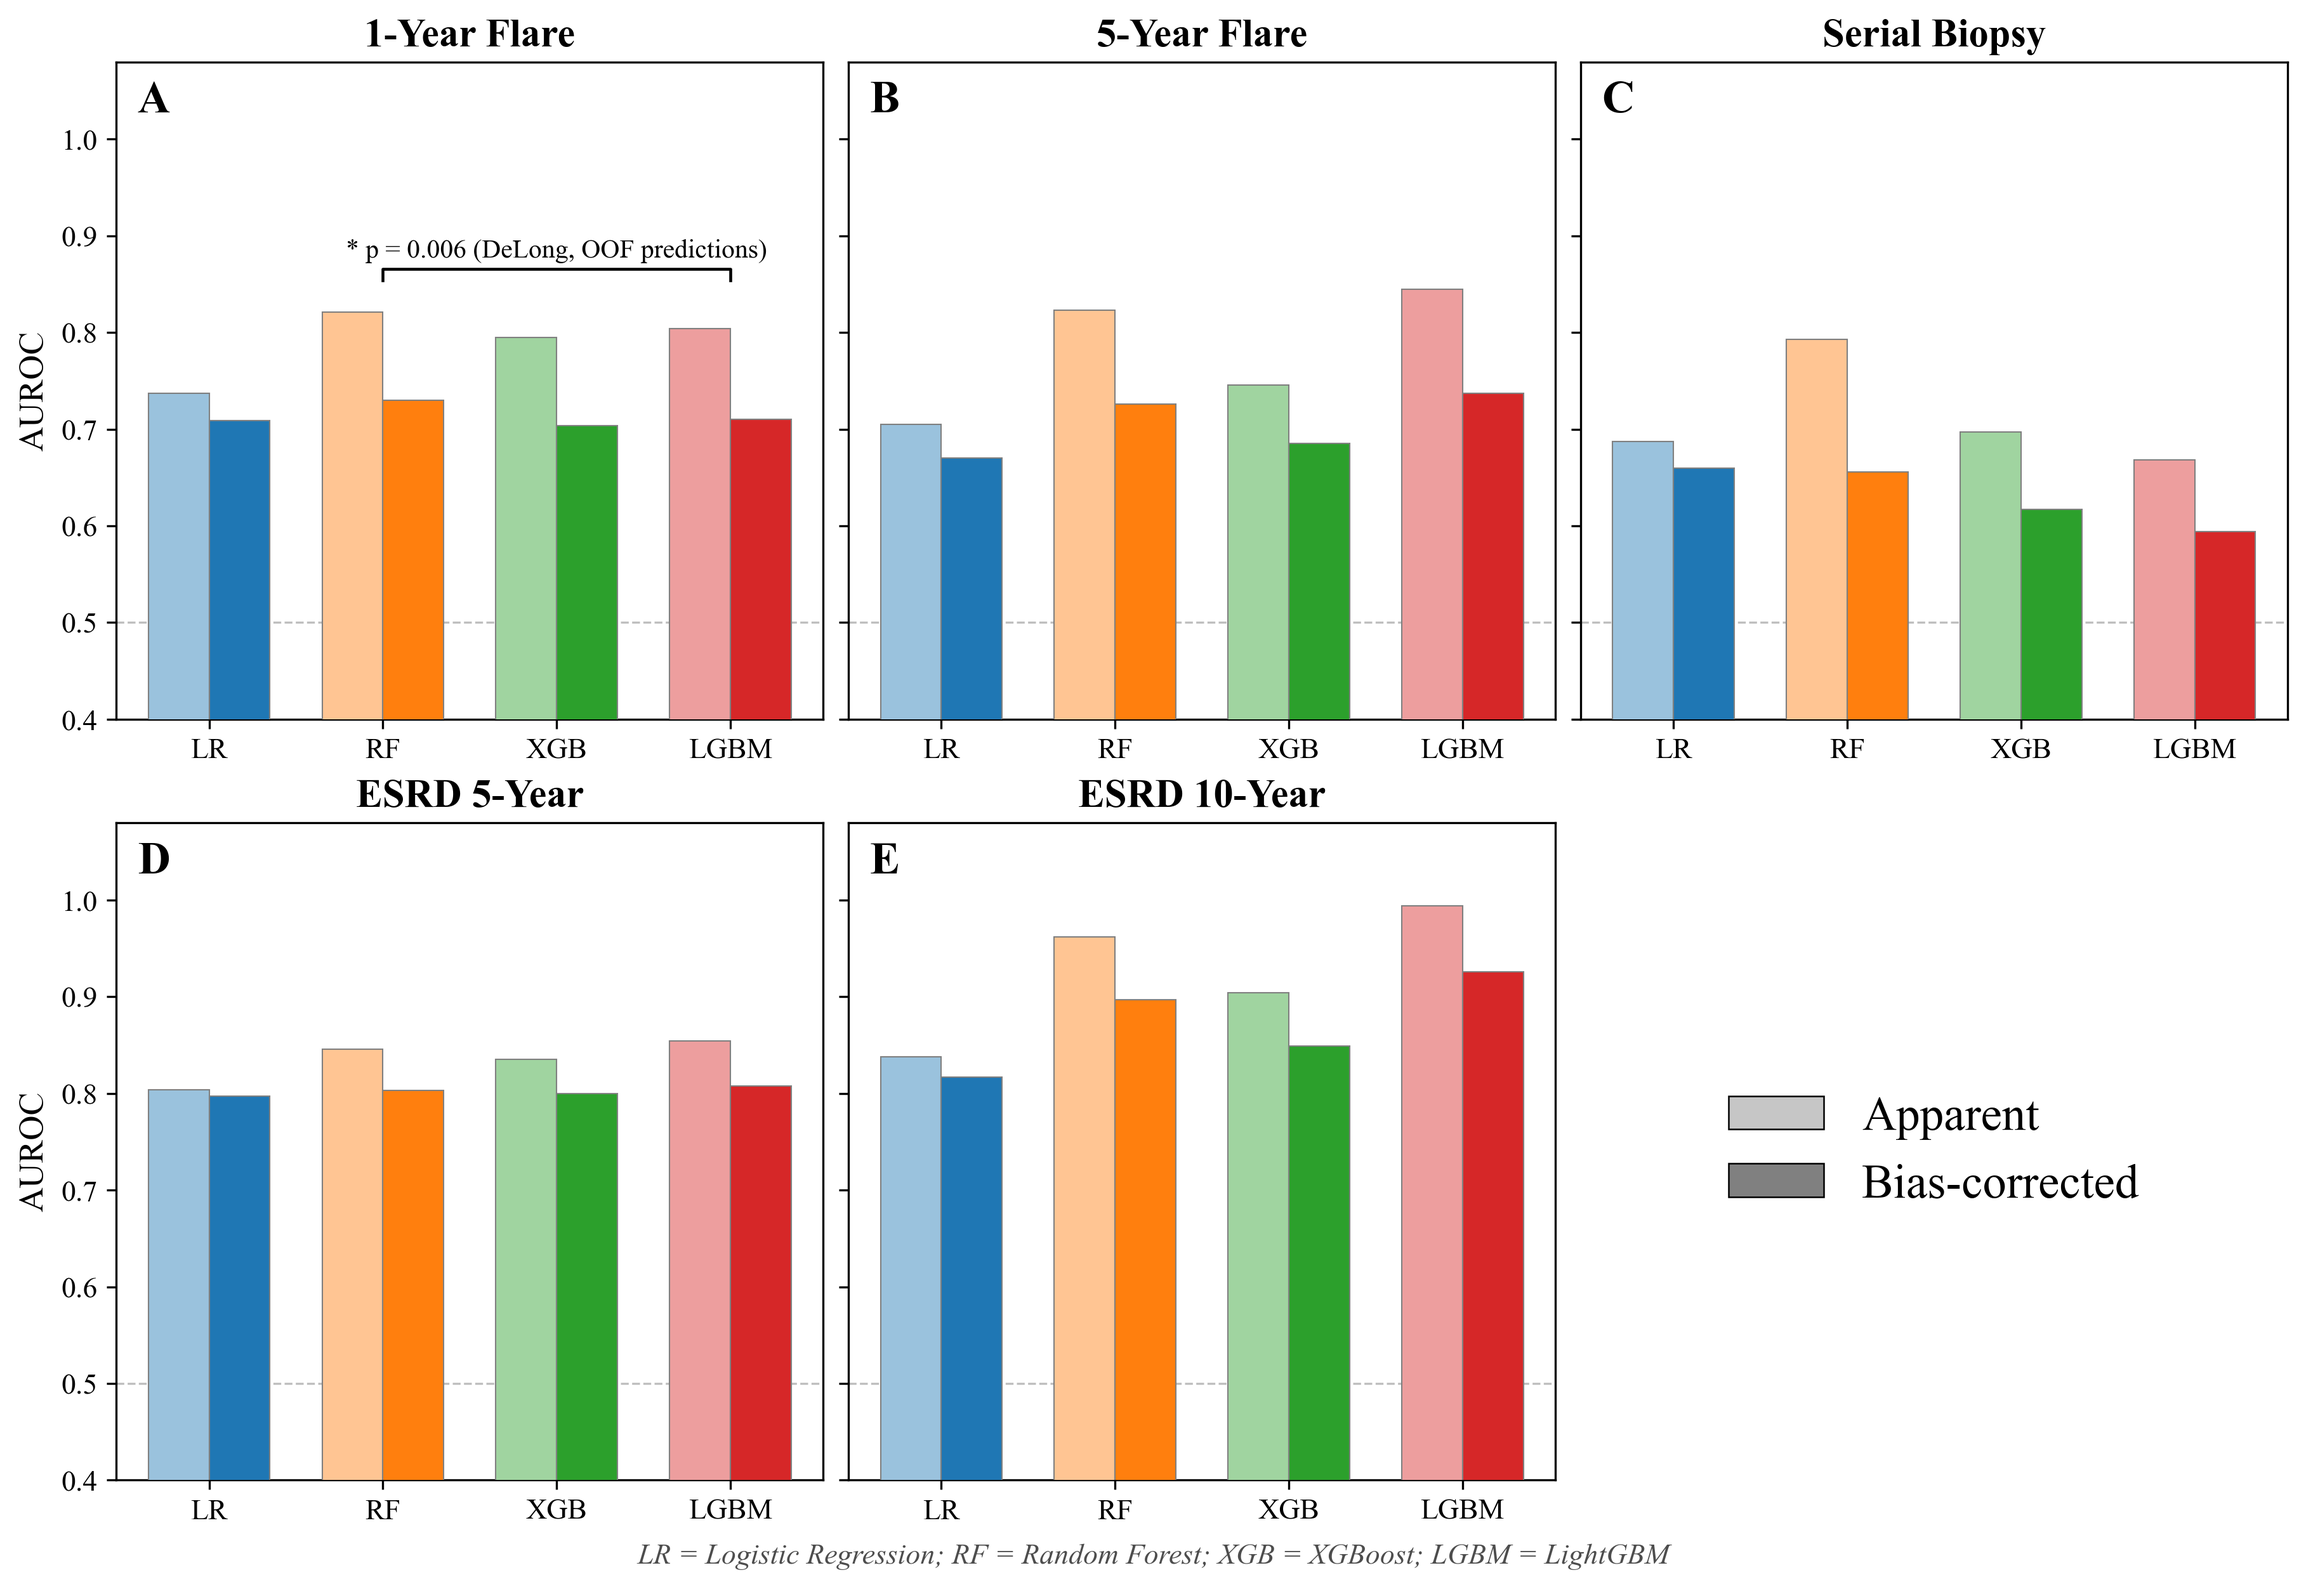
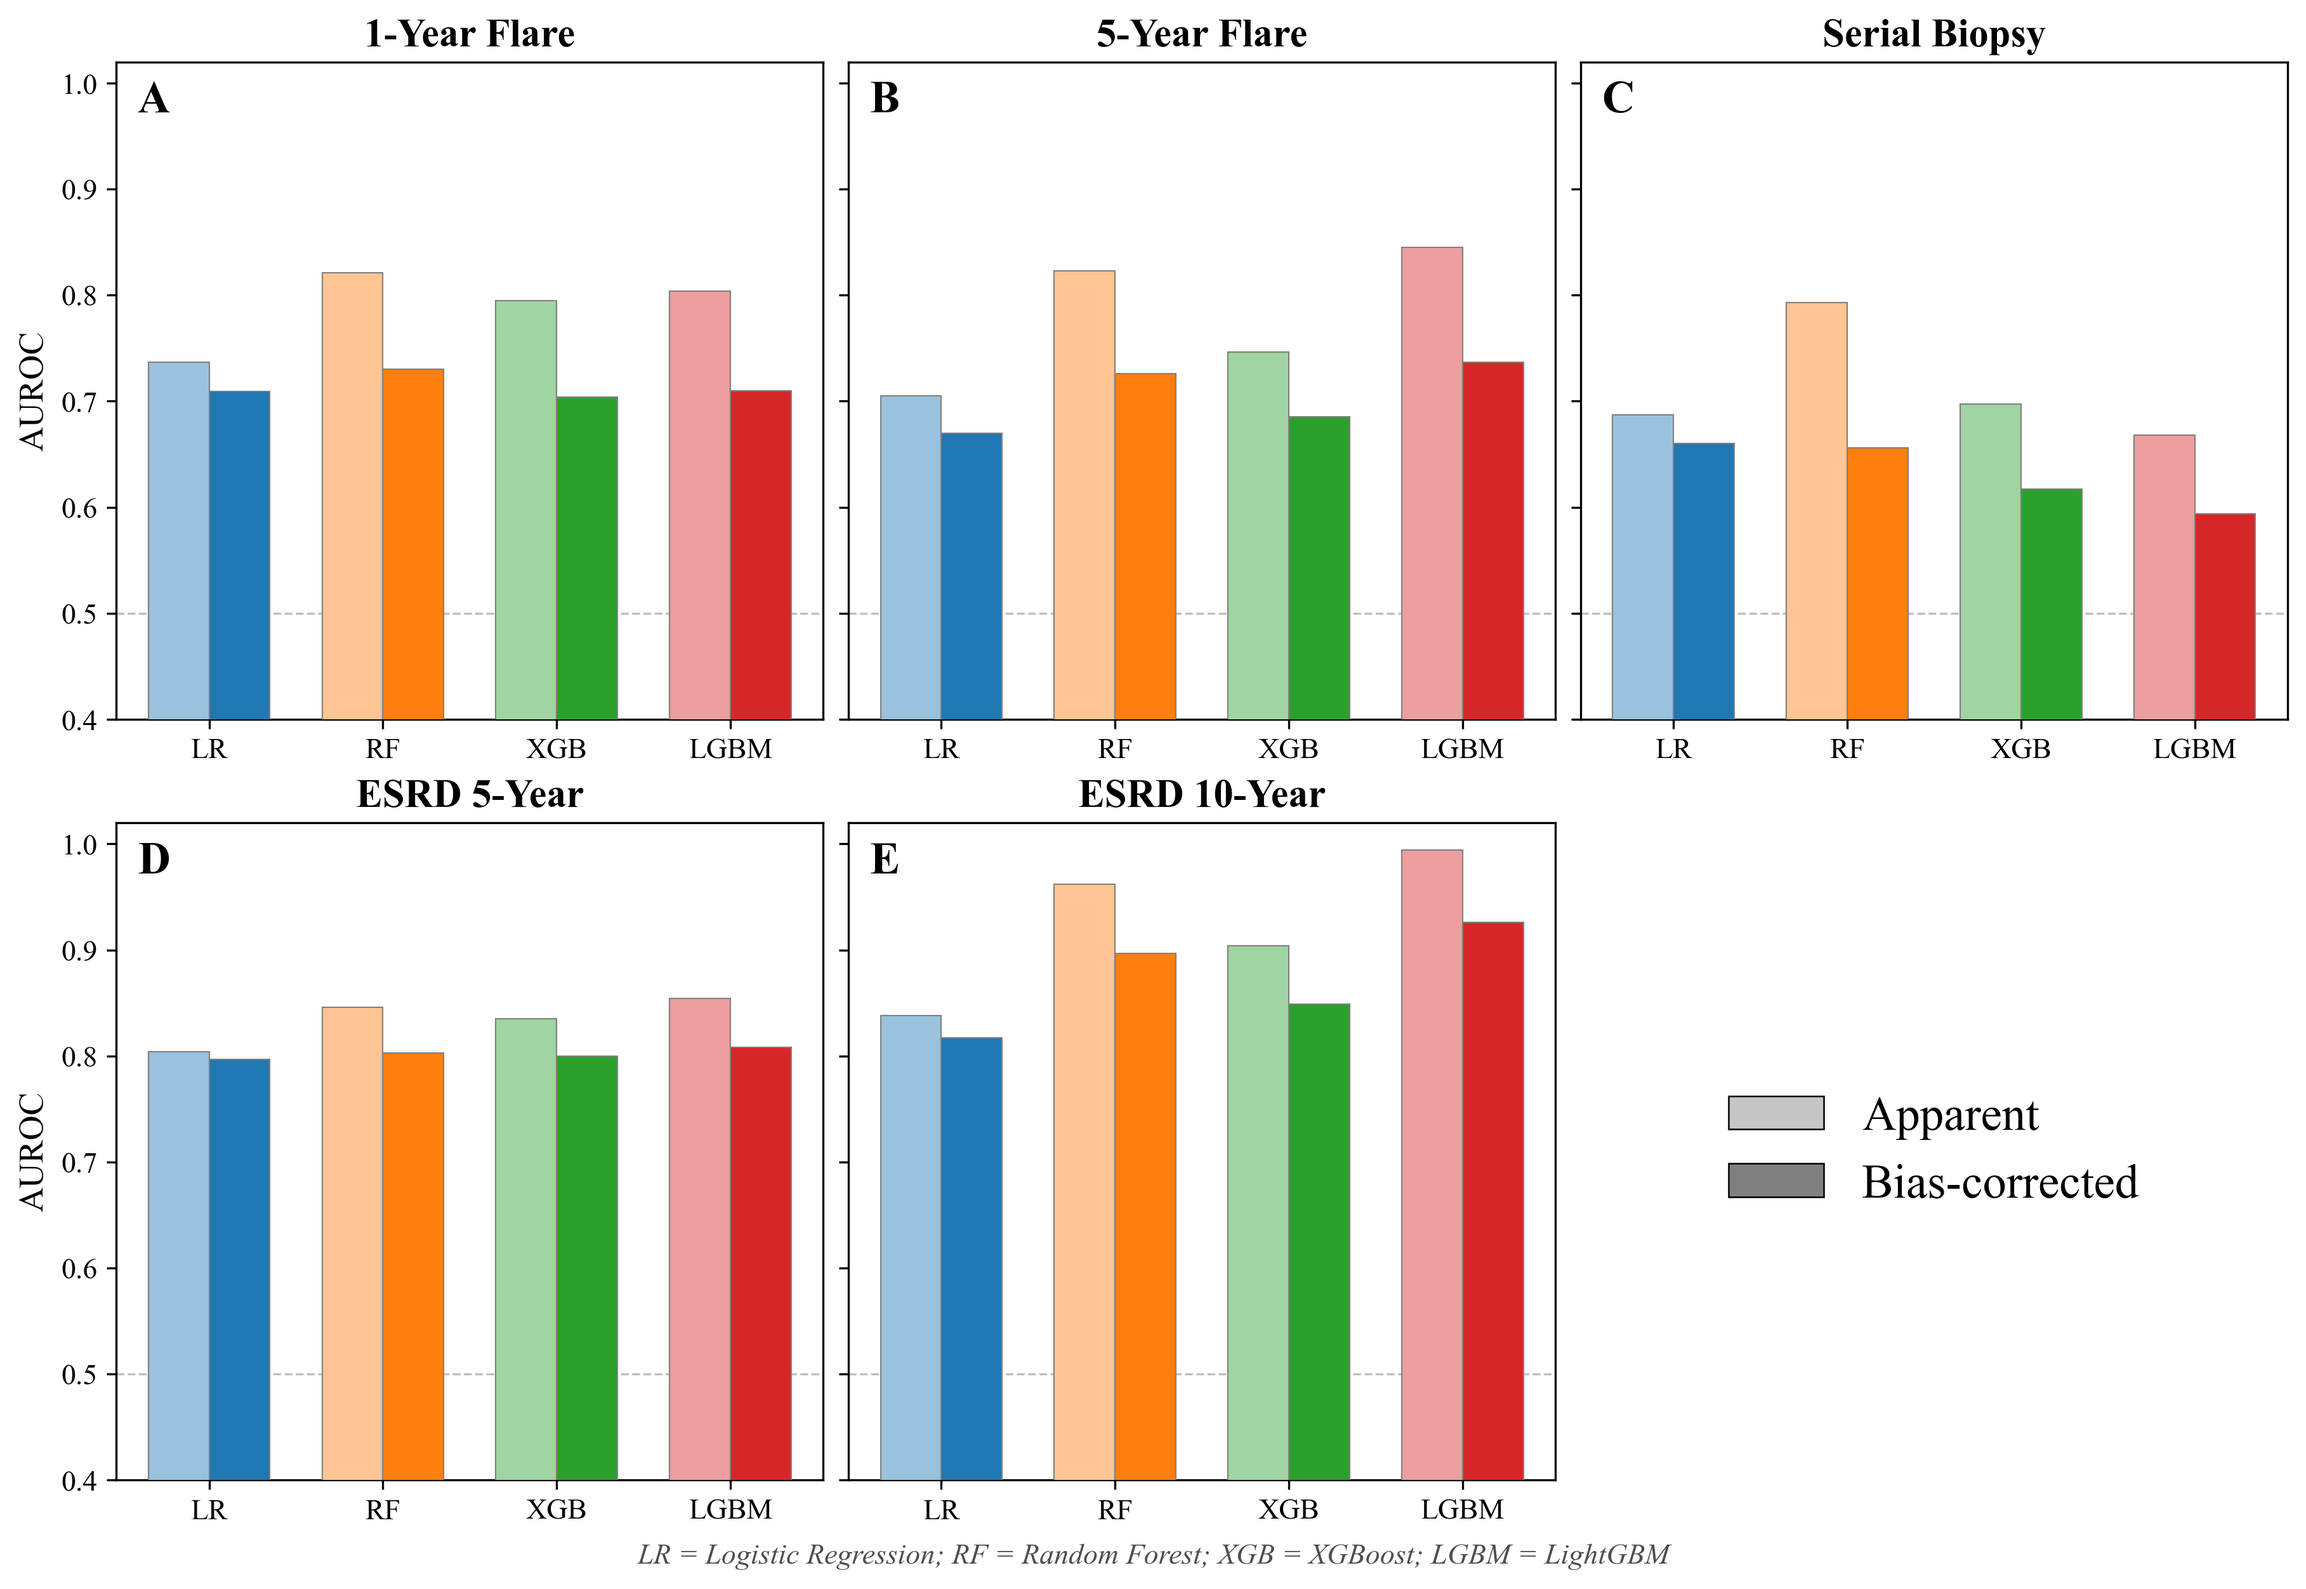
Move DeLong significance finding from optimism chart to ROC figure
The RF vs LightGBM significance result (p=0.006, DeLong) tests OOF CV
predictions, not the Apparent or Bias-corrected AUROC plotted in the
optimism bar chart - annotating it there implied a finding about a
number that wasn't even drawn on that chart. Removed the bracket
entirely from optimism_barchart.png (back to a pure apparent-vs-BC
comparison) and added it as a text line in the ROC figure's Panel A
annotation box instead, directly beside the CV AUROC values (RF: 0.690,
LightGBM: 0.659) it actually corresponds to.

diff --git a/src/17_optimism_barchart.py b/src/17_optimism_barchart.py
@@ -46,35 +46,18 @@ MODEL_ORDER = list(MODEL_COLORS)
 MODEL_ABBR = {"Logistic Regression": "LR", "Random Forest": "RF", "XGBoost": "XGB", "LightGBM": "LGBM"}
 PANEL_LETTERS = ["A", "B", "C", "D", "E"]
 
-# DeLong pairwise significance (src/13_delong_test.py) - the only significant
-# result across all five cohorts and six pairwise comparisons per cohort:
-# Random Forest significantly outperformed LightGBM in the 1-Year Flare
-# cohort (p=0.001 raw, p=0.006 Holm-corrected). Every other comparison in
-# every other cohort was non-significant, so no other panel gets a bracket.
-#
-# NB: DeLong's test compares out-of-fold (OOF) CV predictions - a third,
-# separate estimate from both the "Apparent" (full-data fit) and
-# "Bias-corrected" (Harrell bootstrap) bars shown in this chart. The label
-# says so explicitly rather than implying it applies to one bar or the other.
-SIGNIFICANT_PAIRS = {
-    "1-Year Flare": [("Random Forest", "LightGBM", "p = 0.006 (DeLong, OOF predictions)")],
-}
+# NB: no DeLong significance annotation on this chart. DeLong's test compares
+# out-of-fold (OOF) CV predictions, a third estimate distinct from both the
+# "Apparent" (full-data fit) and "Bias-corrected" (Harrell bootstrap) values
+# plotted here, so a significance finding from that test doesn't correspond
+# to either bar shown - see roc_all_cohorts.png (src/16_roc_calibration_plots.py)
+# instead, which annotates CV AUROC, the quantity DeLong's test actually used.
 
 
 def lighten(hex_color, amount=0.55):
     """Blend a colour toward white by `amount` (0 = original, 1 = white)."""
     r, g, b = to_rgb(hex_color)
     return (r + (1 - r) * amount, g + (1 - g) * amount, b + (1 - b) * amount)
-
-
-def add_significance_bracket(ax, x1, x2, y, label):
-    """Draws a bracket (horizontal line + short end-ticks) between x1 and x2
-    at height y, with `label` (e.g. '* p = 0.006') centred above it -
-    matching the significance-bracket convention used elsewhere in the
-    project (src/esrd/06_esrd_delong_figure.py)."""
-    tick = 0.012
-    ax.plot([x1, x1, x2, x2], [y - tick, y, y, y - tick], color="black", lw=1.1, zorder=6)
-    ax.text((x1 + x2) / 2, y + 0.006, label, ha="center", va="bottom", fontsize=10, zorder=6)
 
 
 def load_bootstrap(path, sheet, apparent_col, bc_col):
@@ -124,7 +107,6 @@ for i, c in enumerate(cohorts):
     row, col = panel_position(i)
     ax = axes[row, col]
 
-    panel_max = 0.0
     for j, name in enumerate(MODEL_ORDER):
         apparent, bc = c["data"][name]
         base = MODEL_COLORS[name]
@@ -132,18 +114,13 @@ for i, c in enumerate(cohorts):
                edgecolor="0.5", linewidth=0.5, zorder=3)
         ax.bar(x[j] + bar_w / 2, bc, width=bar_w, color=base,
                edgecolor="0.5", linewidth=0.5, zorder=3)
-        panel_max = max(panel_max, apparent, bc)
-
-    for m1, m2, label in SIGNIFICANT_PAIRS.get(c["label"], []):
-        x1, x2 = x[MODEL_ORDER.index(m1)], x[MODEL_ORDER.index(m2)]
-        add_significance_bracket(ax, x1, x2, panel_max + 0.045, f"* {label}")
 
     ax.set_xticks(x)
     ax.set_xticklabels([MODEL_ABBR[m] for m in MODEL_ORDER], rotation=0, fontsize=12)
     ax.set_title(c["label"], fontsize=15, fontweight="bold")
-    # small headroom above 1.0 so bars/brackets near the top aren't flush
-    # against the frame (same fix applied to the ROC figure)
-    ax.set_ylim(0.4, 1.08)
+    # small headroom above 1.0 so tall bars aren't flush against the frame
+    # (same fix applied to the ROC figure)
+    ax.set_ylim(0.4, 1.02)
     ax.set_yticks(np.arange(0.4, 1.01, 0.1))
     ax.axhline(0.5, color="grey", linestyle="--", lw=0.8, alpha=0.5, zorder=2)
     for spine in ax.spines.values():

diff --git a/src/16_roc_calibration_plots.py b/src/16_roc_calibration_plots.py
@@ -237,6 +237,11 @@ for i, (c, res) in enumerate(zip(cohorts, all_results)):
         ax.plot(r["fpr"], r["tpr"], color=MODEL_COLORS[name], lw=1.8)
         annot_lines.append(f"{name}: {r['cv_auroc']:.3f}")
 
+    # The only significant DeLong pairwise result across all 5 cohorts (src/13_delong_test.py):
+    # Random Forest significantly outperformed LightGBM here (p=0.001 raw, p=0.006 Holm-corrected).
+    if c["label"] == "1-Year Flare":
+        annot_lines.append("RF > LGBM (DeLong p=0.006*)")
+
     ax.text(0.97, 0.03, "\n".join(annot_lines), transform=ax.transAxes,
             fontsize=10.5, va="bottom", ha="right",
             bbox=dict(boxstyle="round,pad=0.3", facecolor="white", edgecolor="0.7", alpha=0.85))
